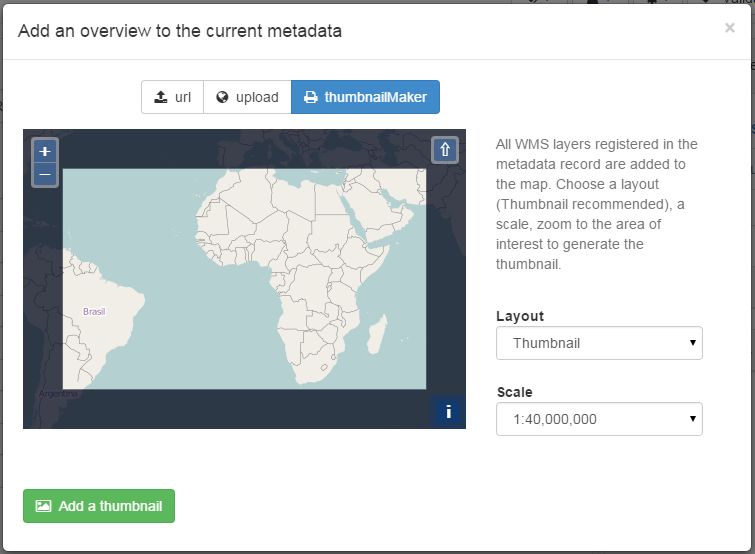
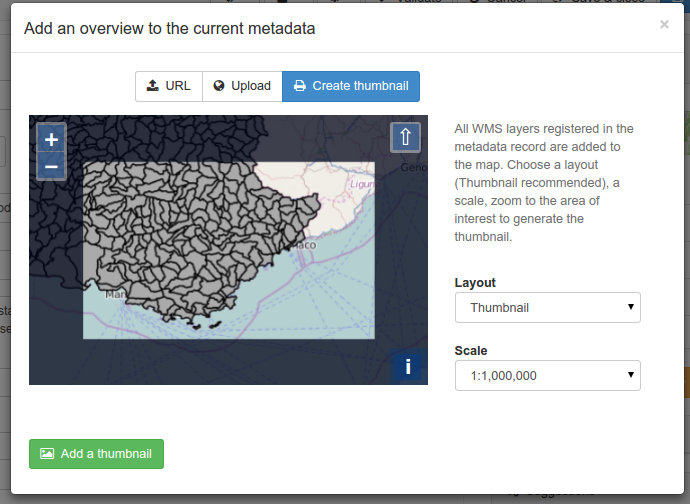
Some more on geopublication and thumbnail from WMS.

Changed region(s): [[0.0, 0.0, 1.0, 1.0], [0.5783, 0.0, 0.6391, 0.0298]]

diff --git a/en/user-guide/workflow/geopublication.rst b/en/user-guide/workflow/geopublication.rst
@@ -16,29 +16,36 @@ wizard is available in the metadata editor.
 .. figure:: img/geopublication-wizard.png
 
 Choose a resource from the list to display the wizard.
-
-.. figure:: img/geopublication-wizard-open.png
-
 The wizard display the list of map servers available:
 
 .. figure:: img/geopublication-wizard-serverlist.png
 
 Choose the server you want to publish the data in. When selected, the catalog
 will check if the dataset is already published or not. If found, it will be
-added to the map, if not, the status message indicates that the dataset is not
+added to the map.
+
+.. figure:: img/geopublication-wizard-open.png
+
+If not, the status message indicates that the dataset is not
 available.
 
 .. figure:: img/geopublication-wizard-notavailable.png
 
-Click the ``check`` button to verify that the dataset is already published in the selected map server.
+From the menu, control the publication process:
 
-Click the ``publish`` button to register the data on the selected map server.
+.. figure:: img/geopublication-wizard-menu.png
 
-Click the ``unpublish`` button to unregister the data on the selected map server.
+* Click the ``check`` button to verify that the dataset is already published in the selected map server.
 
-Click the ``link service to metadata`` button to add links to the OGC service
-in the current metadata record for the published layer.
+* Click the ``publish`` button to register the data on the selected map server.
+
+* Click the ``unpublish`` button to unregister the data on the selected map server.
+
+* Click the ``link service to metadata`` button to add links to the OGC service
+  in the current metadata record for the published layer.
 
 
 
+Once a WMS layer is registered in a metadata record, remember that you can easily generate
+an overview using the service (see :ref:`linking-thumbnail-from-wms`).
 

diff --git a/en/user-guide/associating-resources/linking-thumbnail.rst b/en/user-guide/associating-resources/linking-thumbnail.rst
@@ -57,6 +57,8 @@ Choose a file on your computer or drag&drop a file on the popup.
 Click ``Add a thumbnail`` to trigger the upload.
 
 
+.. _linking-thumbnail-from-wms:
+
 
 Generating a thumbnail using WMS layers
 ---------------------------------------
